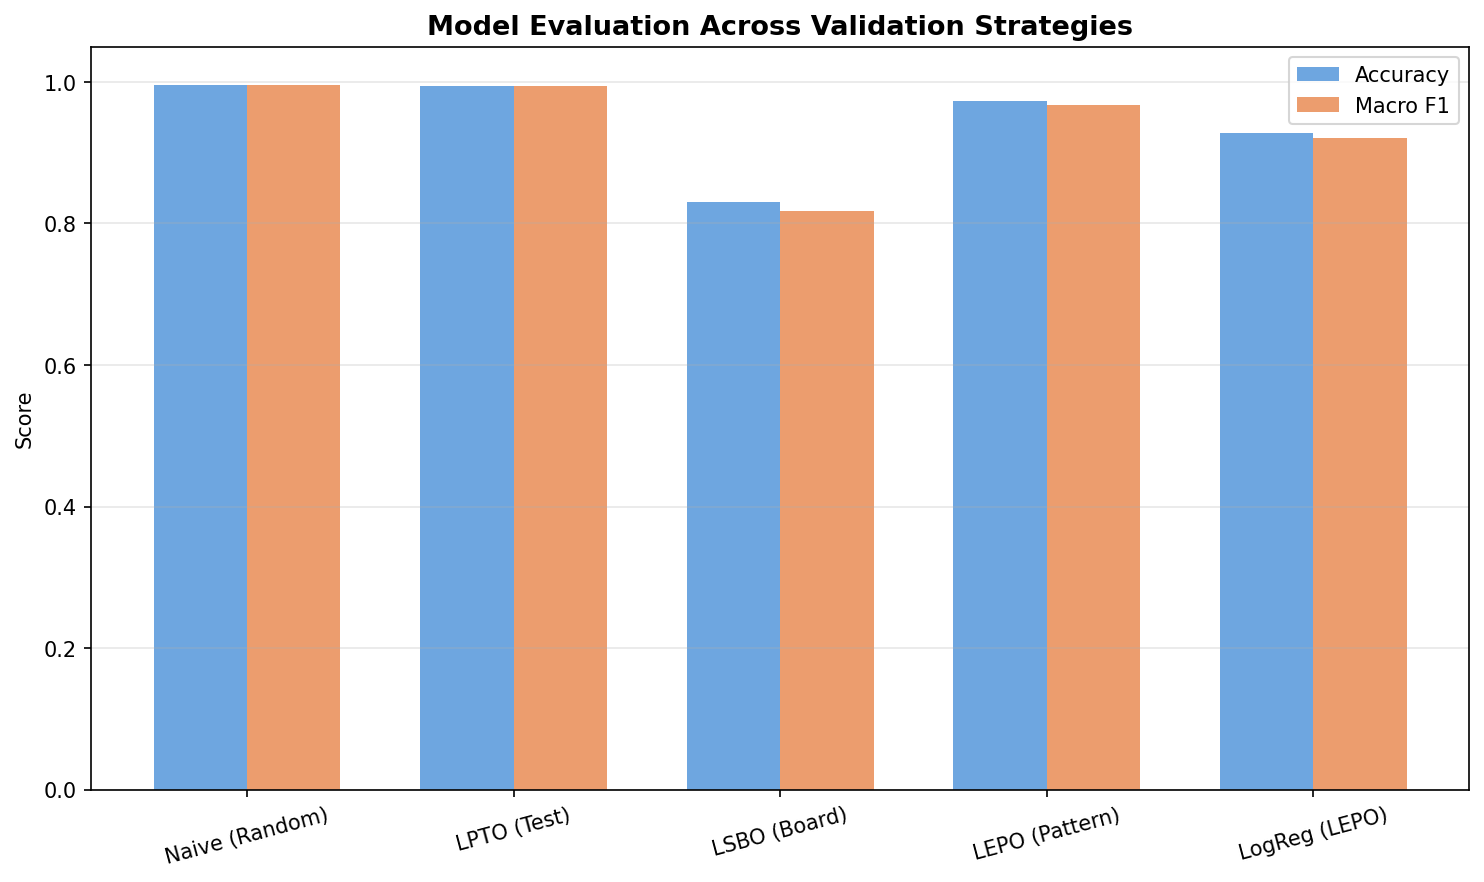
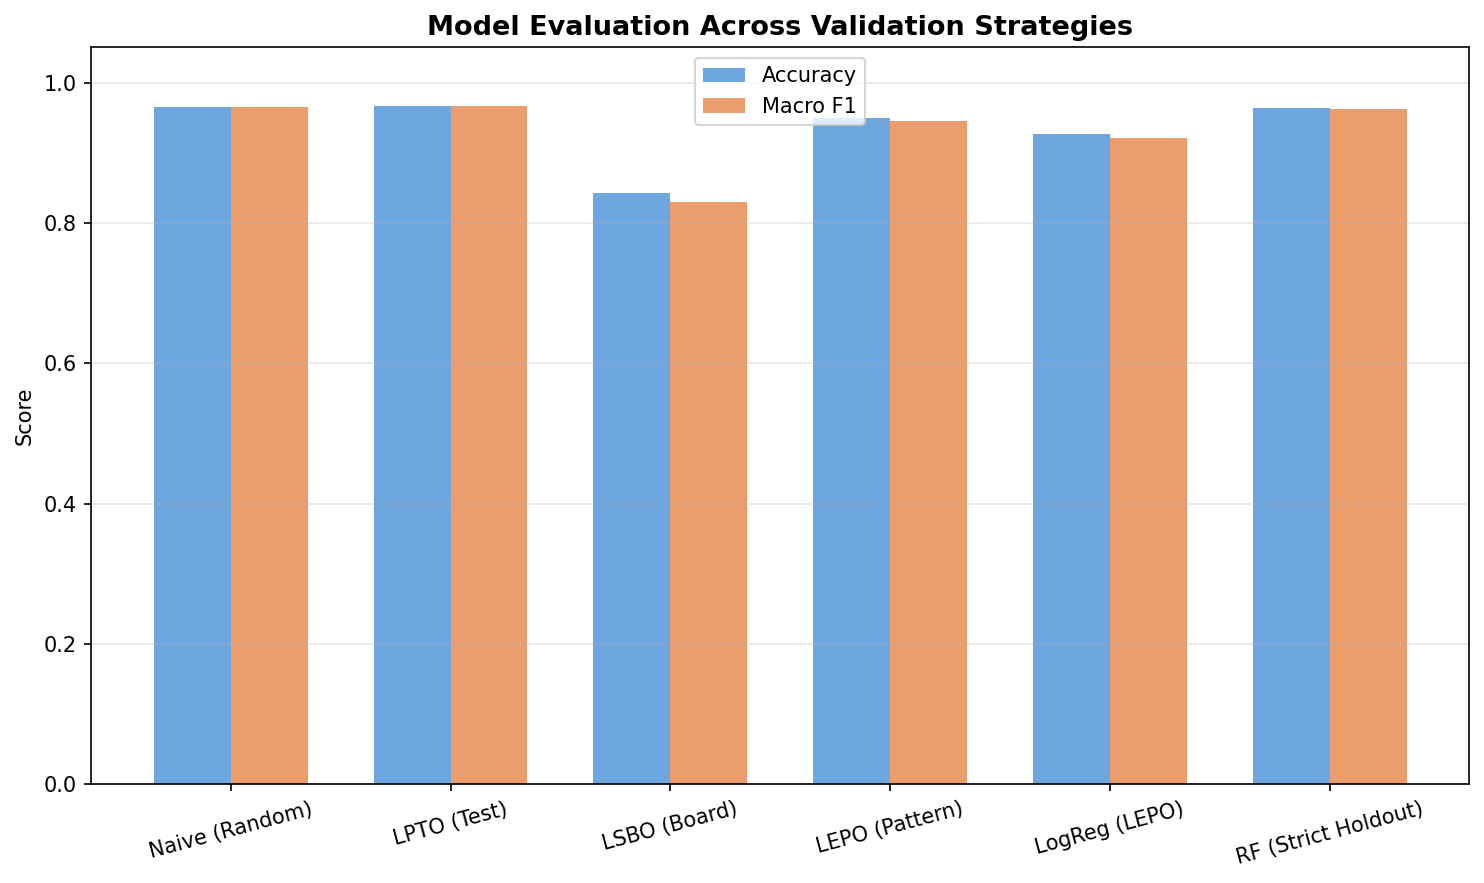
last version

diff --git a/classifier_pipeline.py b/classifier_pipeline.py
@@ -322,7 +322,7 @@ print("\n--- 3A: Naive Random Split (Leakage Baseline) ---")
 skf = StratifiedKFold(n_splits=5, shuffle=True, random_state=42)
 scores_naive, yt_naive, yp_naive = run_cv(
     X, y, None, skf, "RF (Naive)", 
-    RandomForestClassifier(n_estimators=200, max_depth=15, min_samples_leaf=5, random_state=42, n_jobs=-1)
+    RandomForestClassifier(n_estimators=200, max_depth=5, min_samples_leaf=5, random_state=42, n_jobs=-1)
 )
 
 # --- 3B. Leave-Physical-Test-Out CV ---
@@ -331,7 +331,7 @@ test_ids = np.array([m[1] for m in all_meta_info])
 gkf_test = GroupKFold(n_splits=5)
 scores_lpto, yt_lpto, yp_lpto = run_cv(
     X, y, test_ids, gkf_test, "RF (LPTO)",
-    RandomForestClassifier(n_estimators=200, max_depth=15, min_samples_leaf=5, random_state=42, n_jobs=-1)
+    RandomForestClassifier(n_estimators=200, max_depth=5, min_samples_leaf=5, random_state=42, n_jobs=-1)
 )
 
 # --- 3C. Leave-Sensor-Board-Out CV ---
@@ -340,7 +340,7 @@ boards = np.array([m[2] for m in all_meta_info])
 gkf_board = GroupKFold(n_splits=5)
 scores_lsbo, yt_lsbo, yp_lsbo = run_cv(
     X, y, boards, gkf_board, "RF (LSBO)",
-    RandomForestClassifier(n_estimators=200, max_depth=15, min_samples_leaf=5, random_state=42, n_jobs=-1)
+    RandomForestClassifier(n_estimators=200, max_depth=5, min_samples_leaf=5, random_state=42, n_jobs=-1)
 )
 
 # --- 3D. Leave-Excitation-Pattern-Out CV ---
@@ -359,7 +359,7 @@ pattern_families = np.array([get_pattern_family(p) for p in patterns])
 gkf_pattern = GroupKFold(n_splits=6)
 scores_lepo, yt_lepo, yp_lepo = run_cv(
     X, y, pattern_families, gkf_pattern, "RF (LEPO)",
-    RandomForestClassifier(n_estimators=200, max_depth=15, min_samples_leaf=5, random_state=42, n_jobs=-1)
+    RandomForestClassifier(n_estimators=200, max_depth=5, min_samples_leaf=5, random_state=42, n_jobs=-1)
 )
 
 # --- 3E. Linear Model Comparison ---
@@ -367,7 +367,7 @@ print("\n--- 3E: Linear Model Comparison (LEPO) ---")
 # Using LogisticRegression for standard linear baseline on classification
 scores_lr_lepo, yt_lr, yp_lr = run_cv(
     X, y, pattern_families, gkf_pattern, "LogReg (LEPO)",
-    LogisticRegression(max_iter=2000, random_state=42)
+    LogisticRegression(max_iter=1000, random_state=42)
 )
 
 # --- 3F. Strict Combinatorial Holdout ---
@@ -389,7 +389,7 @@ scaler_strict = StandardScaler()
 X_train_s = scaler_strict.fit_transform(X_train)
 X_test_s = scaler_strict.transform(X_test)
 
-clf_strict = RandomForestClassifier(n_estimators=200, max_depth=15, min_samples_leaf=5, random_state=42, n_jobs=-1)
+clf_strict = RandomForestClassifier(n_estimators=200, max_depth=5, min_samples_leaf=5, random_state=42, n_jobs=-1)
 clf_strict.fit(X_train_s, y_train)
 y_pred_strict = clf_strict.predict(X_test_s)
 
@@ -441,7 +441,8 @@ f1s = [
     np.mean([s["macro_f1"] for s in scores_lpto]),
     np.mean([s["macro_f1"] for s in scores_lsbo]),
     np.mean([s["macro_f1"] for s in scores_lepo]),
-    np.mean([s["macro_f1"] for s in scores_lr_lepo])
+    np.mean([s["macro_f1"] for s in scores_lr_lepo]),
+    f1_strict
 ]
 
 x = np.arange(len(model_names))